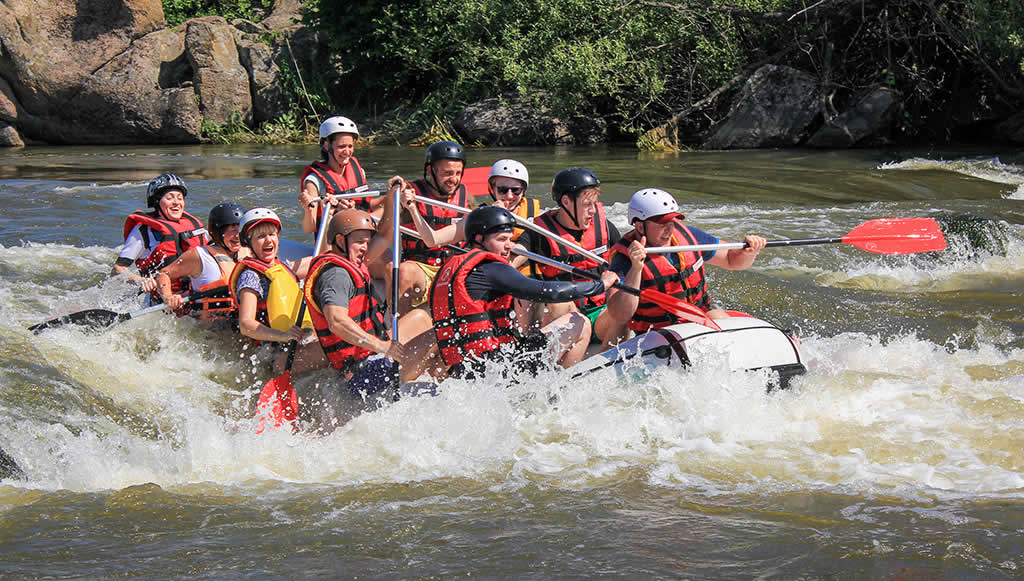
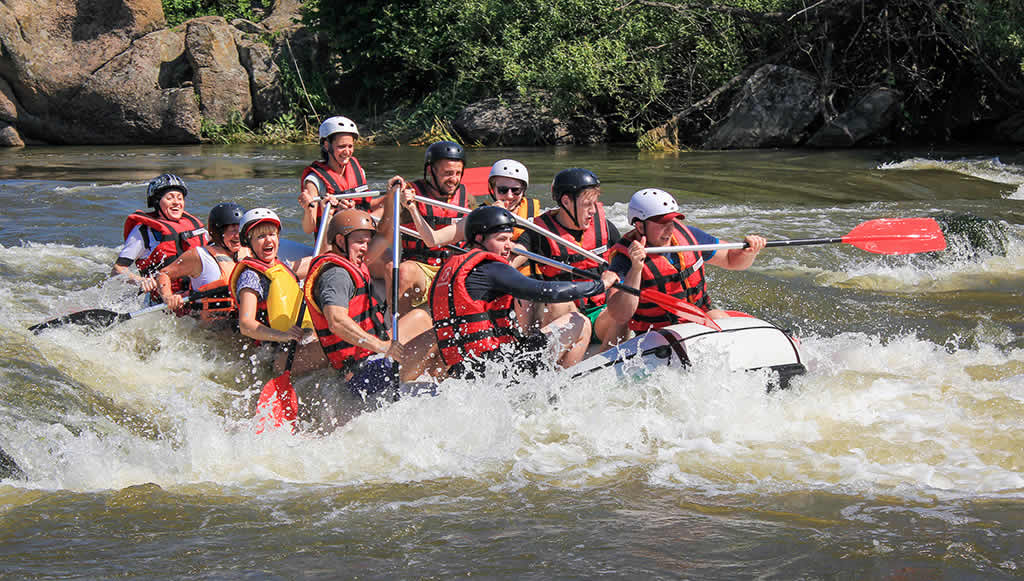
Second changes

Changed region(s): [[0.5312, 0.062, 0.5938, 0.1239], [0.4375, 0.5577, 0.4688, 0.6196], [0.25, 0.6816, 0.2812, 0.7126]]

diff --git a/wwr/about.html b/wwr/about.html
@@ -12,7 +12,7 @@
 
 <body>
     <header>
-        <img src="images/z-wwr-blue.jpg" alt="">
+        <img src="images/z-wwr-blue.jpg" alt="Logo for the White Water">
         <nav>
             <a href="index.html">Home</a>
             <a href="about.html">About Us</a>
@@ -41,7 +41,7 @@
             <a href="https://facebook.com" target="_blank"> <img src="images/facebook.svg" alt="Facebook"></a>
             <a href="https://instagram.com" target="_blank"><img src="images/instagram.svg" alt="Instagram"></a>
             <a href="https://x.com" target="_blank"><img src="images/x-bw.svg" alt="X social"></a>
-            </>
+        </nav>
     </footer>
 </body>
 
